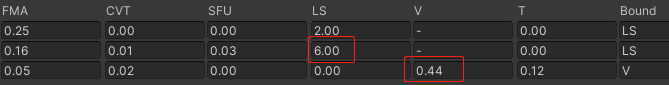
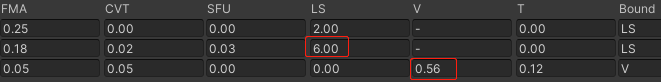
更新总结部分

diff --git a/docs/基于Malioc静态分析Shader.md b/docs/基于Malioc静态分析Shader.md
@@ -116,9 +116,9 @@ The position shader is executed for every index vertex, but the varying shader i
 - `Arithmetic unit (A)`  
   计算单元
 - `Load/store unit (LS)`  
-  执行所有非Texture的内存访问, 包括buffer, image和原子操作
+  执行所有非Texture的内存访问, 包括buffer, image和原子操作, 受`vertex`的结构大小影响
 - `Varying unit (V)`  
-  执行变量插值
+  执行变量插值, 受`struct v2f`大小影响
 - `Texture unit (T)`  
   执行所有纹理采样和过滤操作
 
@@ -160,7 +160,7 @@ Each SFU pipeline implements a 4-wide issue path, executing a 16-wide warp over 
 ![Valhall架构](img/Valhall架构.png)
 
 ## 测试各项数据
-### 基准Shader
+### 1. 基准Shader
 以最基础的shader, 顶点只有pos和uv, 且采样一次纹理并输出结果作为基准shader. 再添加其它代码观察各项数据的变化
 <details><summary>Benchmark Shader</summary>
 <details><summary>Unity shader</summary>
@@ -294,7 +294,7 @@ void main()
 分析结果  
 ![BenchmarkShader](img/BenchmarkShader.png)
 
-### 采样两次
+### 2. 采样两次
 <details><summary>代码</summary>
 
 ```
@@ -347,7 +347,7 @@ void main()
 分析结果  
 ![采样两次](img/采样两次.png)
 
-### 添加顶点法线
+### 3. 添加顶点法线
 <details><summary>代码</summary>
 <!-- </details> -->
 
@@ -476,7 +476,7 @@ void main()
 1. `o.normalWorld = UnityObjectToWorldNormal(v.normal);`转换法线到世界空间后做了`normalize`, 使用了`inversesqrt`, 增加了`SFU`
 2. 新增了`in highp vec3 in_NORMAL0;`和`out highp vec3 vs_TEXCOORD1`使得`LS`和`V`上升.
 
-### 添加半精度顶点法线
+### 4. 添加半精度顶点法线
 <details><summary>代码</summary>
 
 ```
@@ -541,15 +541,16 @@ out mediump vec2 vs_TEXCOORD0;
 
 appData结构体属性越多, `VAO`越大造成`LS`上升
 
-### 增大v2f不改变appData
+### 5. 增大v2f不改变appData
 <details><summary>代码</summary>
 
 ```
 struct appdata
 {
     float4 vertex : POSITION;
-    half3 normal: NORMAL; // 顶点法线
+    half3 normal: NORMAL;
     half2 uv1 : TEXCOORD0;
+    half2 uv2 : TEXCOORD1;
 };
 
 struct v2f
@@ -558,21 +559,244 @@ struct v2f
     half3 normalWorld: TEXCOORD1;
     half2 uv1 : TEXCOORD0;
     half2 uv2 : TEXCOORD2;
-    half2 uv3 : TEXCOORD3;
-
+    half4 uv34 : TEXCOORD3;
 };
+
+sampler2D _MainTex;
+float4 _MainTex_ST;
+
+v2f vert (appdata v)
+{
+    v2f o;
+    o.vertex = UnityObjectToClipPos(v.vertex);
+    o.uv1 = TRANSFORM_TEX(v.uv1, _MainTex);
+    o.uv2 = TRANSFORM_TEX(v.uv2, _MainTex);;
+    o.uv34.xy = saturate(o.uv1 + 0.1);
+    o.uv34.zw = saturate(o.uv2 - 0.1);
+    o.normalWorld = UnityObjectToWorldNormal(v.normal);
+    return o;
+}
+
+fixed4 frag (v2f i) : SV_Target
+{
+    // sample the texture
+    half2 uv = (i.uv1 + i.uv2 + i.uv34.xy + i.uv34.zw) * 0.25;
+    fixed4 col = tex2D(_MainTex, uv);
+    col.r = i.normalWorld.x;
+    return col;
+}
 ======================================
-in highp vec4 in_POSITION0;
 in mediump vec3 in_NORMAL0;
 in mediump vec2 in_TEXCOORD0;
+in mediump vec2 in_TEXCOORD1;
 out mediump vec3 vs_TEXCOORD1;
 out mediump vec2 vs_TEXCOORD0;
 out mediump vec2 vs_TEXCOORD2;
-out mediump vec2 vs_TEXCOORD3;
+out mediump vec4 vs_TEXCOORD3;
+
 
 ```
 </details>
 
 分析结果  
-![增大v2f](img/增大v2f.png)
-LS大小并未改变, v2f增大只改变varying的cycles数量.
+![增大v2f](img/增大v2f.png)  
+在`case4`的基础上, 将`v2f`增加一个`half2`和`half4`只使varying的cycles数量上升, LS不变.
+
+### 6. 合并half4
+将多个half2合并成half4
+<details><summary>代码</summary>
+
+```
+struct appdata
+{
+    float4 vertex : POSITION;
+    half3 normal: NORMAL;
+    half4 uv12 : TEXCOORD0;
+};
+
+struct v2f
+{
+    float4 vertex : SV_POSITION;
+    half3 normalWorld: TEXCOORD1;
+    half4 uv12 : TEXCOORD0;
+    half4 uv34 : TEXCOORD2;
+};
+
+sampler2D _MainTex;
+float4 _MainTex_ST;
+
+v2f vert (appdata v)
+{
+    v2f o;
+    o.vertex = UnityObjectToClipPos(v.vertex);
+    o.uv12.xy = TRANSFORM_TEX(v.uv12.xy, _MainTex);
+    o.uv12.zw = TRANSFORM_TEX(v.uv12.zw, _MainTex);;
+    o.uv34.xy = saturate(o.uv12.xy + 0.1);
+    o.uv34.zw = saturate(o.uv12.zw - 0.1);
+    o.normalWorld = UnityObjectToWorldNormal(v.normal);
+    return o;
+}
+
+fixed4 frag (v2f i) : SV_Target
+{
+    // sample the texture
+    half2 uv = (i.uv12.xy + i.uv12.zw + i.uv34.xy + i.uv34.zw) * 0.25;
+    fixed4 col = tex2D(_MainTex, uv);
+    col.r = i.normalWorld.x;
+    return col;
+}
+============================================
+in mediump vec3 in_NORMAL0;
+in mediump vec4 in_TEXCOORD0;
+out mediump vec3 vs_TEXCOORD1;
+out mediump vec4 vs_TEXCOORD0;
+out mediump vec4 vs_TEXCOORD2;
+
+```
+</details>
+
+分析结果  
+![合并uv](img/合并uv.png)  
+`appdata`合并后`LS`下降, `varying`不变
+
+### 7. 增加多个uniform变量
+<details><summary>代码</summary>
+
+```
+float param1;
+float param2;
+float param3;
+float param4;
+float param5;
+float param6;
+
+struct appdata
+{
+    float4 vertex : POSITION;
+    half3 normal: NORMAL;
+    half4 uv12 : TEXCOORD0;
+};
+
+struct v2f
+{
+    float4 vertex : SV_POSITION;
+    half3 normalWorld: TEXCOORD1;
+    half4 uv12 : TEXCOORD0;
+    half4 uv34 : TEXCOORD2;
+};
+
+sampler2D _MainTex;
+float4 _MainTex_ST;
+
+v2f vert (appdata v)
+{
+    v2f o;
+    float param = (param1+param2+param3+param4+param5+param6) / 6.0;
+    o.vertex = UnityObjectToClipPos(v.vertex);
+    o.uv12.xy = TRANSFORM_TEX(v.uv12.xy, _MainTex);
+    o.uv12.zw = TRANSFORM_TEX(v.uv12.zw, _MainTex);;
+    o.uv34.xy = saturate(o.uv12.xy + param);
+    o.uv34.zw = saturate(o.uv12.zw - 0.1);
+    o.normalWorld = UnityObjectToWorldNormal(v.normal);
+    return o;
+}
+
+fixed4 frag (v2f i) : SV_Target
+{
+    // sample the texture
+    half2 uv = (i.uv12.xy + i.uv12.zw + i.uv34.xy + i.uv34.zw) * 0.25;
+    fixed4 col = tex2D(_MainTex, uv);
+    col.r = i.normalWorld.x;
+    return col;
+}
+=========================================================================
+#version 300 es
+
+#define HLSLCC_ENABLE_UNIFORM_BUFFERS 1
+#if HLSLCC_ENABLE_UNIFORM_BUFFERS
+#define UNITY_UNIFORM
+#else
+#define UNITY_UNIFORM uniform
+#endif
+#define UNITY_SUPPORTS_UNIFORM_LOCATION 1
+#if UNITY_SUPPORTS_UNIFORM_LOCATION
+#define UNITY_LOCATION(x) layout(location = x)
+#define UNITY_BINDING(x) layout(binding = x, std140)
+#else
+#define UNITY_LOCATION(x)
+#define UNITY_BINDING(x) layout(std140)
+#endif
+uniform 	vec4 hlslcc_mtx4x4unity_ObjectToWorld[4];
+uniform 	vec4 hlslcc_mtx4x4unity_WorldToObject[4];
+uniform 	vec4 hlslcc_mtx4x4unity_MatrixVP[4];
+uniform 	float param1;
+uniform 	float param2;
+uniform 	float param3;
+uniform 	float param4;
+uniform 	float param5;
+uniform 	float param6;
+uniform 	vec4 _MainTex_ST;
+in highp vec4 in_POSITION0;
+in mediump vec3 in_NORMAL0;
+in mediump vec4 in_TEXCOORD0;
+out mediump vec3 vs_TEXCOORD1;
+out mediump vec4 vs_TEXCOORD0;
+out mediump vec4 vs_TEXCOORD2;
+vec4 u_xlat0;
+vec4 u_xlat1;
+float u_xlat6;
+void main()
+{
+    u_xlat0 = in_POSITION0.yyyy * hlslcc_mtx4x4unity_ObjectToWorld[1];
+    u_xlat0 = hlslcc_mtx4x4unity_ObjectToWorld[0] * in_POSITION0.xxxx + u_xlat0;
+    u_xlat0 = hlslcc_mtx4x4unity_ObjectToWorld[2] * in_POSITION0.zzzz + u_xlat0;
+    u_xlat0 = u_xlat0 + hlslcc_mtx4x4unity_ObjectToWorld[3];
+    u_xlat1 = u_xlat0.yyyy * hlslcc_mtx4x4unity_MatrixVP[1];
+    u_xlat1 = hlslcc_mtx4x4unity_MatrixVP[0] * u_xlat0.xxxx + u_xlat1;
+    u_xlat1 = hlslcc_mtx4x4unity_MatrixVP[2] * u_xlat0.zzzz + u_xlat1;
+    gl_Position = hlslcc_mtx4x4unity_MatrixVP[3] * u_xlat0.wwww + u_xlat1;
+    u_xlat0.x = dot(in_NORMAL0.xyz, hlslcc_mtx4x4unity_WorldToObject[0].xyz);
+    u_xlat0.y = dot(in_NORMAL0.xyz, hlslcc_mtx4x4unity_WorldToObject[1].xyz);
+    u_xlat0.z = dot(in_NORMAL0.xyz, hlslcc_mtx4x4unity_WorldToObject[2].xyz);
+    u_xlat6 = dot(u_xlat0.xyz, u_xlat0.xyz);
+    u_xlat6 = inversesqrt(u_xlat6);
+    u_xlat0.xyz = vec3(u_xlat6) * u_xlat0.xyz;
+    vs_TEXCOORD1.xyz = u_xlat0.xyz;
+    u_xlat0 = in_TEXCOORD0 * _MainTex_ST.xyxy + _MainTex_ST.zwzw;
+    vs_TEXCOORD0 = u_xlat0;
+    u_xlat1.x = param2 + param1;
+    u_xlat1.x = u_xlat1.x + param3;
+    u_xlat1.x = u_xlat1.x + param4;
+    u_xlat1.x = u_xlat1.x + param5;
+    u_xlat1.x = u_xlat1.x + param6;
+    u_xlat0.xy = u_xlat1.xx * vec2(0.166666672, 0.166666672) + u_xlat0.xy;
+#ifdef UNITY_ADRENO_ES3
+    u_xlat0.xy = min(max(u_xlat0.xy, 0.0), 1.0);
+#else
+    u_xlat0.xy = clamp(u_xlat0.xy, 0.0, 1.0);
+#endif
+    vs_TEXCOORD2.zw = u_xlat0.zw + vec2(-0.100000001, -0.100000001);
+#ifdef UNITY_ADRENO_ES3
+    vs_TEXCOORD2.zw = min(max(vs_TEXCOORD2.zw, 0.0), 1.0);
+#else
+    vs_TEXCOORD2.zw = clamp(vs_TEXCOORD2.zw, 0.0, 1.0);
+#endif
+    vs_TEXCOORD2.xy = u_xlat0.xy;
+    return;
+}
+
+```
+</details>
+
+分析结果  
+![添加uniform变量](img/增加Uniform.png)  
+添加`Uniform`不影响`LS`
+
+
+## 总结
+- `FMA`: 与加减乘除计算操作数成正比
+- `CVT`: 与不同类型间计算数量成正比
+- `SFU`: 与`inversesqrt`, `sqrt`, `normalize`等计算函数使用数量成正比
+- `LS`: 与顶点输入结构体的`texcoord`使用数量成正比, 即使是同样数量的texcoord, 但用`float4`和`float2`, `LS`的上升是相同的.
+- `Varying`: 与`v2f`结构体大小, shader间插值计算成正比
+- `T`: 与贴图采样次数成正比
